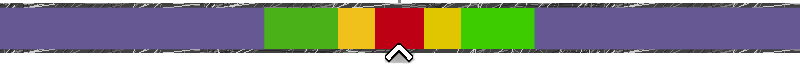
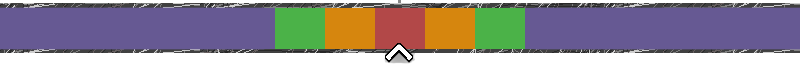
updated image and timings

Changed region(s): [[0.3125, 0.125, 0.6875, 0.7812]]

diff --git a/client/objects/level.py b/client/objects/level.py
@@ -12,7 +12,7 @@ class HitTiming:
 
     def setup(self, bpm):
         self.timePerBeat = 60/bpm*1000
-        self.__TIMING_WINDOWS = self.TIMING_WINDOWS = [(self.timePerBeat*0.25, 5), (self.timePerBeat*0.5, 2), (self.timePerBeat*1, 0)]
+        self.__TIMING_WINDOWS = self.TIMING_WINDOWS = [(self.timePerBeat*0.25, 5), (self.timePerBeat*0.75, 2), (self.timePerBeat*1.25, 0)]
 
     def getScore(self, timing: float) -> tuple[float, int]:
         """

diff --git a/client/objects/beat.py b/client/objects/beat.py
@@ -11,8 +11,8 @@ class BeatHitter:
         self.baseBeatImage = pygame.image.load("assets/images/beat.png").convert_alpha()
 
         self.beatsPerBar = 4
-        self.beatsPerGreen = 1
-        self.beatsPerOrange = 0.5
+        self.beatsPerGreen = 1.25
+        self.beatsPerOrange = 0.75
         self.beatsPerRed = 0.25
         self.timePerBeat = 60/bpm*1000
         self.beats = []
